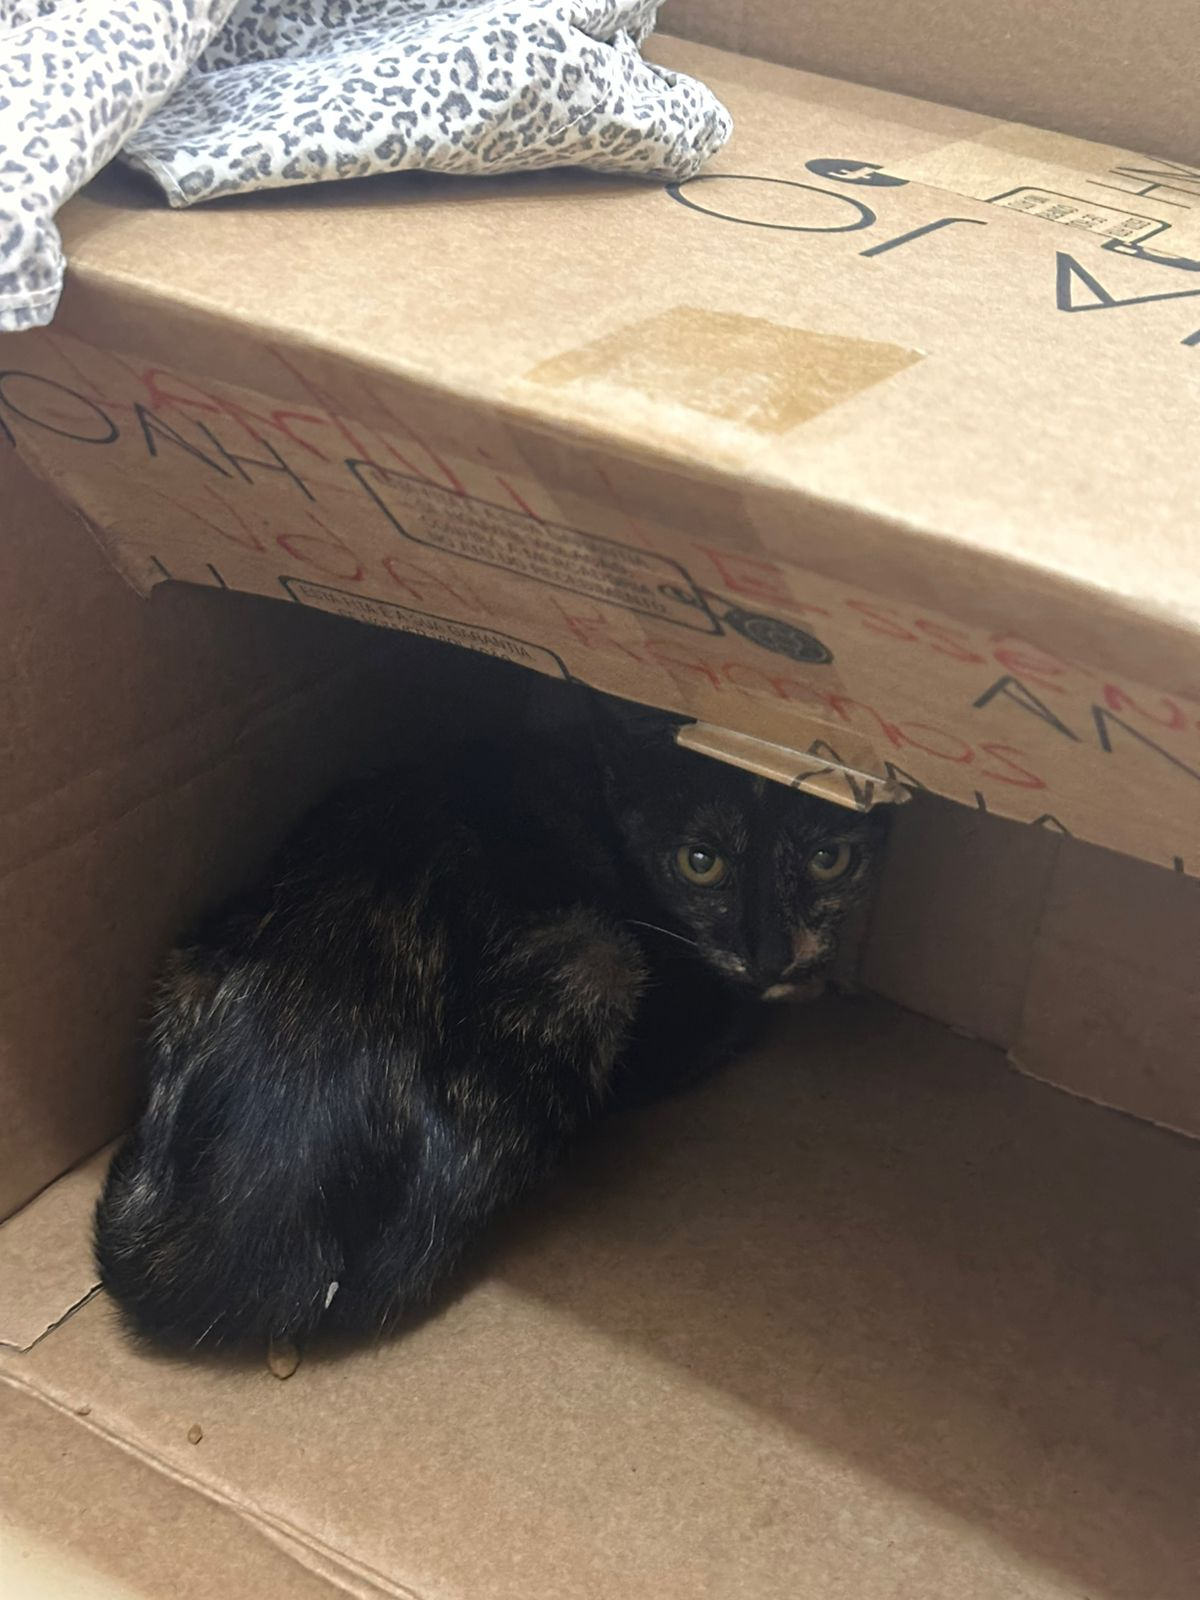
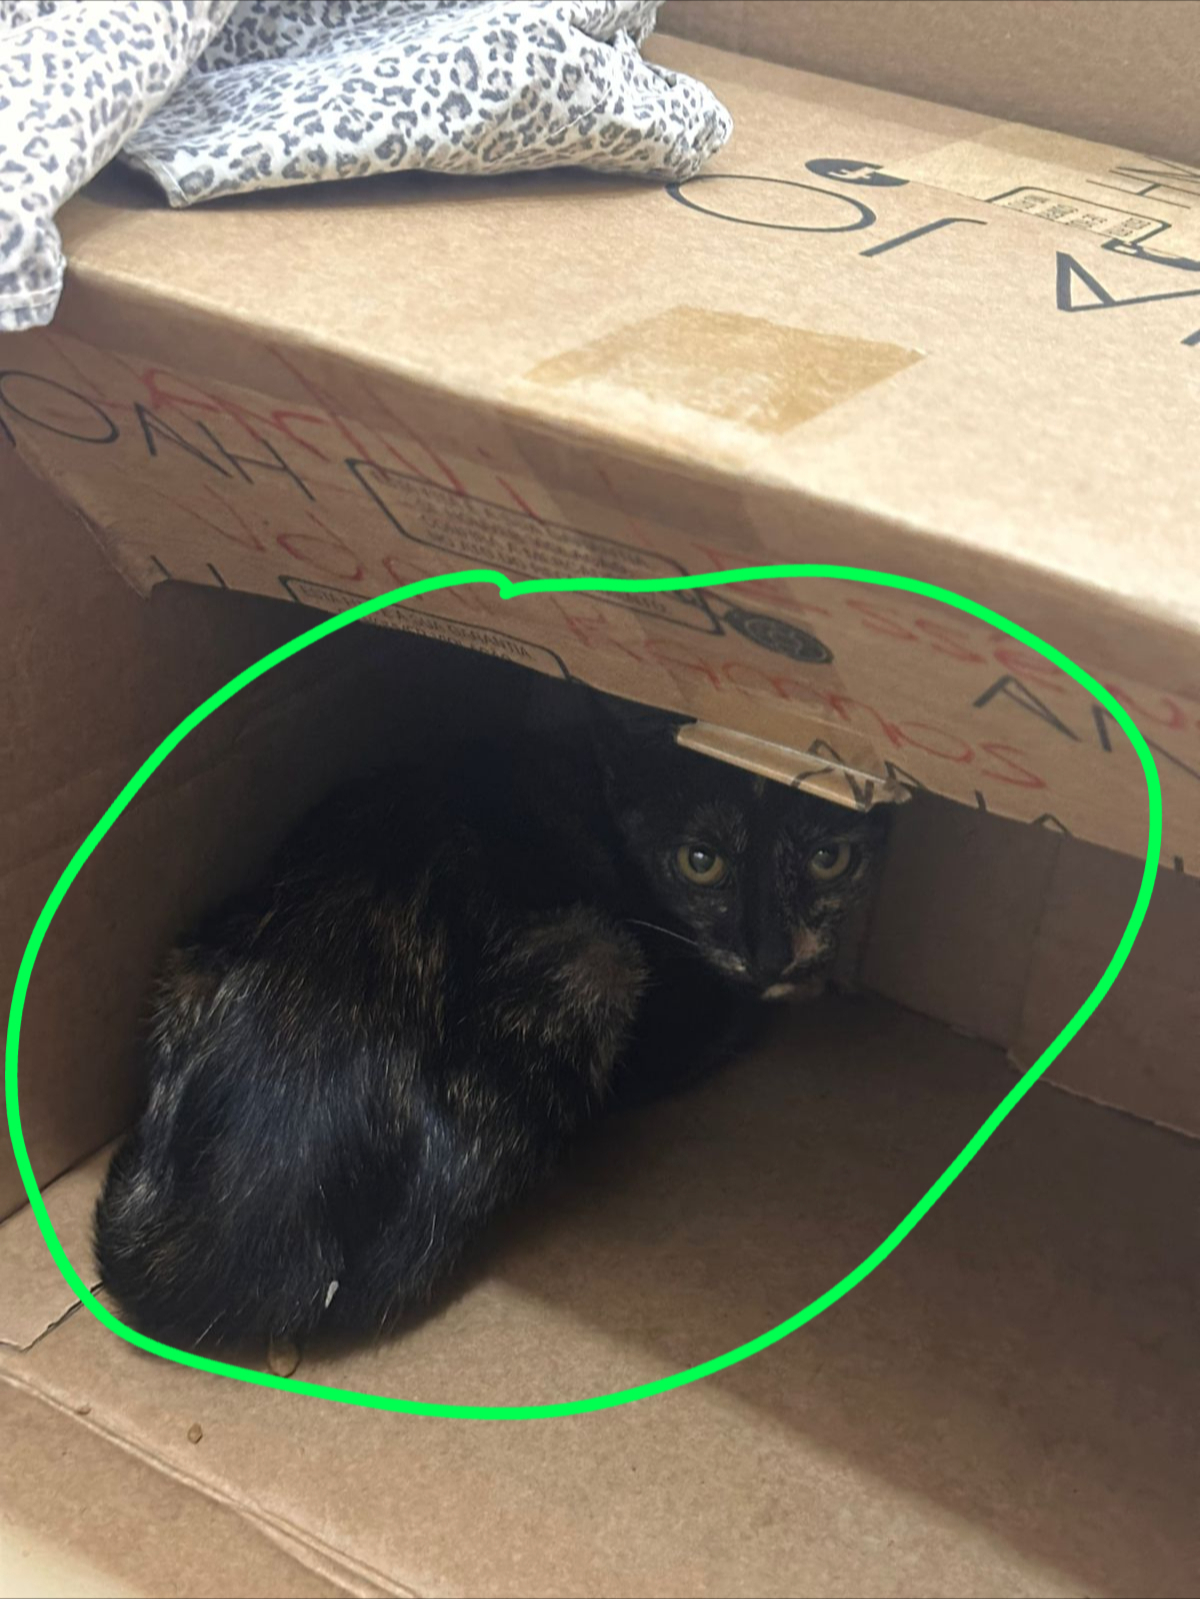
Last Sync: 2025-02-04 12:37:10 (Mobile)

diff --git a/Assets/Excalidraw/Drawing 2025-02-04 09.34.47.excalidraw.md b/Assets/Excalidraw/Drawing 2025-02-04 09.34.47.excalidraw.md
@@ -1,0 +1,44 @@
+---
+
+excalidraw-plugin: parsed
+tags: [excalidraw]
+
+---
+==⚠  Switch to EXCALIDRAW VIEW in the MORE OPTIONS menu of this document. ⚠== You can decompress Drawing data with the command palette: 'Decompress current Excalidraw file'. For more info check in plugin settings under 'Saving'
+
+
+# Excalidraw Data
+
+## Text Elements
+Teste de escrita em 
+imagem para fins de Anotação ^K3ZnLCoc
+
+## Embedded Files
+63957af0066dadaf3070a7e18d3d8028395d9cb0: [[../Attachments/IMG-20250204-WA0002.jpg]]
+
+%%
+## Drawing
+```compressed-json
[1 lines of base64/hex data omitted]
+
[1 lines of base64/hex data omitted]
+
[1 lines of base64/hex data omitted]
+
[1 lines of base64/hex data omitted]
+
[1 lines of base64/hex data omitted]
+
[1 lines of base64/hex data omitted]
+
[1 lines of base64/hex data omitted]
+
[1 lines of base64/hex data omitted]
+
[1 lines of base64/hex data omitted]
+
[1 lines of base64/hex data omitted]
+
+0hlDxG0LgCjZybk4Q+mtNQkAA===
+```
+%%

diff --git a/Anotação.md b/Anotação.md
@@ -5,4 +5,7 @@
 ###
 Anotações lorem ipsum sit amet dracos ibis sit ome ano lorem soma ipsum que ostre fago mir ispum sit amet lorem ibis ame toia sit amet lorem ipsum
 
-![](Assets/Attachments/IMG-20250204-WA0002.jpg)
+![|300x400](Assets/Attachments/IMG-20250204-WA0002.jpg)
+
+
+![Drawing 2025-02-04 09.34.47.excalidraw](Assets/Excalidraw/Drawing%202025-02-04%2009.34.47.excalidraw.md)
